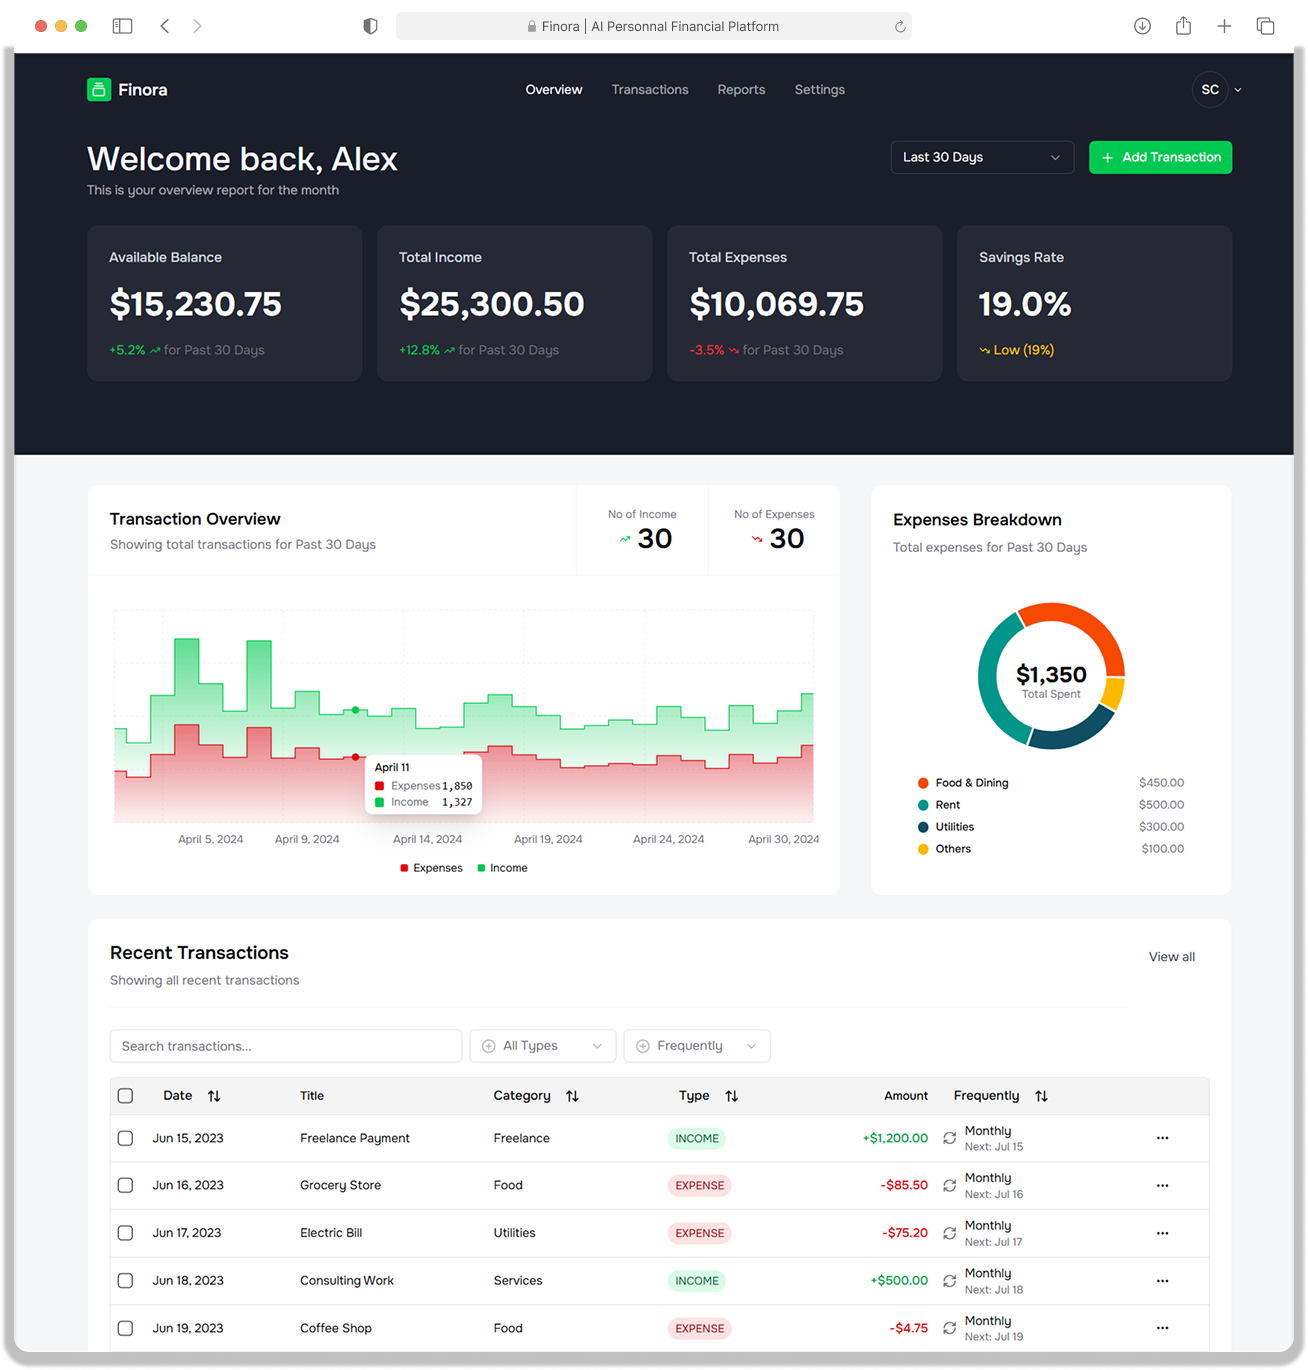
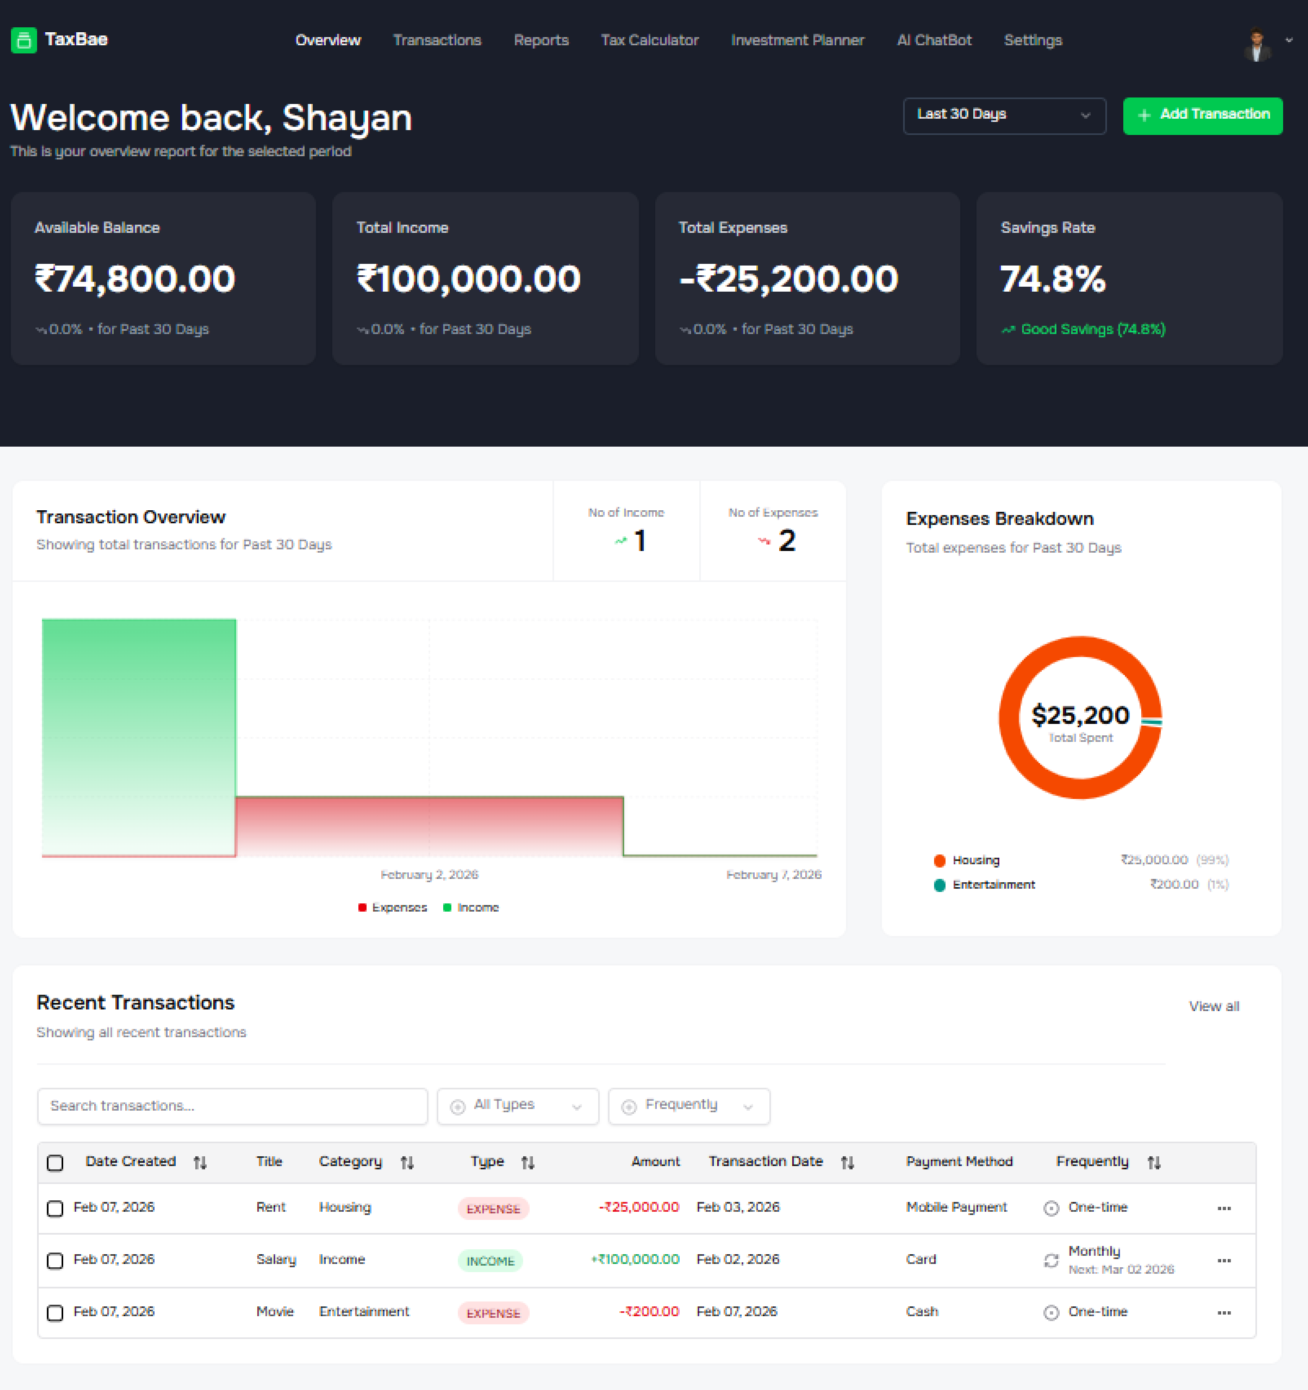
Update branding in sign-up page, enhance chatbot UI, and refine billing information

diff --git a/client/src/pages/chatbot/index.tsx b/client/src/pages/chatbot/index.tsx
@@ -3,29 +3,31 @@ import { Input } from "@/components/ui/input";
 import { Button } from "@/components/ui/button";
 
 export default function Chatbot() {
-  const [messages, setMessages] = useState<{ role: "user" | "bot"; text: string }[]>([]);
+  const [messages, setMessages] = useState<
+    { role: "user" | "bot"; text: string }[]
+  >([]);
   const [input, setInput] = useState("");
 
-  // Static responses for quick actions
   const quickAnswers: Record<string, string> = {
     "How can I save tax this year?":
       "You can save tax using Section 80C (₹1.5L), ELSS funds, PPF, NPS additional ₹50,000 under 80CCD(1B), health insurance under 80D, and home loan deductions under 24B and 80EE/80EEA.",
     "Explain Section 80C benefits":
       "Section 80C allows deductions up to ₹1.5L for investments like ELSS, PPF, EPF, life insurance premiums, home loan principal, Sukanya Samriddhi Yojana, and tax-saving FDs.",
     "Should I choose old or new tax regime?":
-      "Choose the **old regime** if you claim many deductions (80C, HRA, etc). Choose the **new regime** if your deductions are low — it offers lower tax slabs with no major exemptions.",
+      "Choose the old regime if you claim many deductions. Choose the new regime if deductions are low — it offers lower tax slabs.",
     "When should I file my ITR?":
-      "For most individuals, the ITR filing deadline is **31st July** each year. If books of accounts need audit, the deadline is **31st October**.",
+      "For most individuals, the ITR filing deadline is 31st July. If audit applies, it is 31st October.",
     "Best investment options for tax saving":
-      "Top tax-saving investments include ELSS mutual funds, PPF, NPS, tax-saving FDs, and life insurance. ELSS offers the best liquidity + high return potential.",
+      "ELSS mutual funds, PPF, NPS, tax-saving FDs, and life insurance are the best tax-saving options.",
   };
 
   const sendMessage = (msg: string) => {
     setMessages((prev) => [...prev, { role: "user", text: msg }]);
-
-    // Add bot reply (if available)
     if (quickAnswers[msg]) {
-      setMessages((prev) => [...prev, { role: "bot", text: quickAnswers[msg] }]);
+      setMessages((prev) => [
+        ...prev,
+        { role: "bot", text: quickAnswers[msg] },
+      ]);
     }
   };
 
@@ -38,80 +40,93 @@ export default function Chatbot() {
   const quickQuestions = Object.keys(quickAnswers);
 
   return (
-    <div className="w-full h-3/5 bg-[#f7f7f8] text-gray-900">
-      {/* Top Header */}
-      <header className="w-full px-6 py-4 border-b bg-white flex items-center justify-between">
-        <div>
-          <h1 className="text-xl font-semibold">AI Tax Assistant</h1>
-          <p className="text-sm text-gray-500">Connected • RAG Powered</p>
-        </div>
-        <Button variant="outline">New Chat</Button>
-      </header>
+    <div className="w-full h-[calc(100vh-64px)] bg-background text-foreground">
+      {/* Page Container */}
+      <div className="h-full max-w-7xl mx-auto px-6 py-6">
+        <div className="h-full grid grid-cols-12 gap-6">
 
-      {/* Body layout */}
-      <div className="flex-1 flex flex-col items-center py-10 overflow-y-auto">
-        
-        {/* Welcome Message */}
-        <div className="bg-white border shadow-sm rounded-xl p-6 w-full max-w-2xl">
-          <h2 className="text-lg font-semibold mb-3 flex items-center gap-2">
-            ✨ Hello there! 👋 Welcome to TaxBae AI!
-          </h2>
-
-          <p className="text-sm text-gray-600 mb-3">I'm here to help you with:</p>
-
-          <ul className="space-y-1 text-sm text-gray-700">
-            <li>• Tax planning & saving strategies 💰</li>
-            <li>• Investment guidance 📈</li>
-            <li>• ITR filing assistance 📝</li>
-            <li>• Section-wise deduction explanations 📚</li>
-            <li>• Personalized financial advice 🎯</li>
-          </ul>
-        </div>
-
-        {/* Messages */}
-        <div className="w-full max-w-2xl mt-6 space-y-4">
-          {messages.map((msg, i) => (
-            <div
-              key={i}
-              className={
-                msg.role === "user"
-                  ? "bg-blue-50 border border-blue-200 text-blue-900 p-3 rounded-lg w-fit ml-auto max-w-[70%]"
-                  : "bg-gray-100 border border-gray-300 p-3 rounded-lg w-fit max-w-[80%]"
-              }
-            >
-              {msg.text}
+          {/* ---------------- LEFT PANEL ---------------- */}
+          <aside className="col-span-12 md:col-span-3 bg-card border border-border rounded-2xl p-5 flex flex-col justify-between">
+            <div>
+              <h2 className="text-lg font-semibold">AI Tax Assistant</h2>
+              <p className="text-sm text-muted-foreground mt-1">
+                Connected • RAG Powered
+              </p>
             </div>
-          ))}
-        </div>
 
-        {/* Quick Questions */}
-        <div className="w-full max-w-2xl mt-8 flex flex-wrap gap-3">
-          {quickQuestions.map((q) => (
-            <Button
-              key={q}
-              variant="outline"
-              className="text-sm rounded-full"
-              onClick={() => sendMessage(q)}
-            >
-              {q}
+            <Button variant="outline" className="mt-6">
+              New Chat
             </Button>
-          ))}
+          </aside>
+
+          {/* ---------------- CHAT PANEL ---------------- */}
+          <section className="col-span-12 md:col-span-9 bg-card border border-border rounded-2xl flex flex-col overflow-hidden">
+
+            {/* Messages */}
+            <div className="flex-1 p-6 overflow-y-auto no-scrollbar space-y-4">
+
+              {/* Welcome Card */}
+              <div className="bg-muted/60 border border-border rounded-xl p-5">
+                <h3 className="text-lg font-semibold mb-2">
+                  ✨ Hello there! 👋 Welcome to TaxBae AI!
+                </h3>
+                <p className="text-sm text-muted-foreground mb-2">
+                  I'm here to help you with:
+                </p>
+                <ul className="text-sm text-muted-foreground space-y-1">
+                  <li>• Tax planning & saving strategies 💰</li>
+                  <li>• Investment guidance 📈</li>
+                  <li>• ITR filing assistance 📝</li>
+                  <li>• Section-wise deduction explanations 📚</li>
+                  <li>• Personalized financial advice 🎯</li>
+                </ul>
+              </div>
+
+              {/* Chat Messages */}
+              {messages.map((msg, i) => (
+                <div
+                  key={i}
+                  className={
+                    msg.role === "user"
+                      ? "ml-auto max-w-[70%] bg-blue-600 text-white p-3 rounded-lg"
+                      : "max-w-[80%] bg-muted border border-border p-3 rounded-lg"
+                  }
+                >
+                  {msg.text}
+                </div>
+              ))}
+
+              {/* Quick Questions */}
+              <div className="pt-4 flex flex-wrap gap-2">
+                {quickQuestions.map((q) => (
+                  <Button
+                    key={q}
+                    size="sm"
+                    variant="outline"
+                    className="rounded-full"
+                    onClick={() => sendMessage(q)}
+                  >
+                    {q}
+                  </Button>
+                ))}
+              </div>
+            </div>
+
+            {/* Input Area */}
+            <div className="border-t border-border p-4 flex items-center gap-3 bg-background">
+              <Input
+                placeholder="Ask me about taxes, investments, or financial planning..."
+                className="flex-1"
+                value={input}
+                onChange={(e) => setInput(e.target.value)}
+                onKeyDown={(e) => e.key === "Enter" && sendTypedMessage()}
+              />
+              <Button onClick={sendTypedMessage} className="px-6">
+                Send
+              </Button>
+            </div>
+          </section>
         </div>
-      </div>
-
-      {/* Bottom Input Bar */}
-      <div className="w-full border-t bg-white mt-20 px-6 py-4 flex items-center gap-3">
-        <Input
-          placeholder="Ask me about taxes, investments, or financial planning..."
-          className="flex-1"
-          value={input}
-          onChange={(e) => setInput(e.target.value)}
-          onKeyDown={(e) => e.key === "Enter" && sendTypedMessage()}
-        />
-
-        <Button onClick={sendTypedMessage} className="px-6">
-          Send
-        </Button>
       </div>
     </div>
   );

diff --git a/client/src/pages/settings/billing.tsx b/client/src/pages/settings/billing.tsx
@@ -6,66 +6,73 @@ const Billing = () => {
       <div>
         <h3 className="text-lg font-medium">Billing</h3>
         <p className="text-sm text-muted-foreground">
-          Manage your subscription and billing information
+          Manage your plan and unlock advanced financial insights
         </p>
       </div>
       <Separator />
 
       <div className="w-full">
-        {/* Current Plan */}
-        {/* Upgrade Options */}
         <div className="mt-0">
-          <h1 className="text-lg font-medium mb-2">Support Us</h1>
+          <h1 className="text-lg font-medium mb-2">Upgrade to Taxbae Pro 🚀</h1>
+
           <p className="text-base mb-2">
-            The Billing feature is part of the <strong>extended version</strong>{" "}
-            of this project. It took <strong>weeks and months</strong> to
-            design, build, and refine.
+            <strong>Taxbae</strong> is an AI-powered financial assistant built as
+            a <strong>college major project</strong>, designed to simplify
+            personal finance, tax planning, and investment decisions.
           </p>
 
           <p className="text-base mb-2">
-            By supporting us, you’ll unlock premium billing features including:
+            The Pro version unlocks advanced features developed through months
+            of research, design, and real-world financial modeling.
+          </p>
+
+          <p className="text-base mb-2">
+            With Taxbae Pro, you get access to:
           </p>
 
           <ul className="list-disc pl-5 text-base mb-2">
             <li>
-              <strong>Free Trial + Stripe Subscriptions</strong>
+              <strong>AI-Powered Financial Insights</strong> personalized to your
+              data
             </li>
             <li>
-              <strong>Monthly & Yearly Plans</strong> built-in
+              <strong>Monthly Financial Reports</strong> with clear breakdowns
+              and trends
             </li>
             <li>
-              <strong>Switch between plans</strong> (monthly ↔ yearly)
+              <strong>CSV Import</strong> for bank statements & transactions
             </li>
             <li>
-              <strong>Manage & Cancel Subscriptions</strong> anytime
+              <strong>Recurring Transaction Tracking</strong>
             </li>
             <li>
-              <strong>Step-by-step Setup Video</strong>
+              <strong>Investment Planning & Forecasting</strong>
             </li>
             <li>
-              <strong>Full Source Code</strong>
+              <strong>Smart Financial Calculators</strong> (tax, savings, ROI,
+              etc.)
             </li>
             <li>
-              <strong>Production-Ready Deployment</strong>
+              <strong>Advanced AI Models</strong> for predictions and planning
             </li>
           </ul>
 
           <p className="text-base mb-2">
-            Your support helps us keep building free, high-quality projects for
-            the community.
+            This project demonstrates how modern AI technology can transform
+            personal finance management into a smarter, more automated
+            experience.
           </p>
 
           <p className="text-base font-medium">
-            🔓 <span className="text-green-600">Get it here:</span>
+            🔓 <span className="text-green-600">Upgrade & explore:</span>
             <a
               className="text-blue-500 underline ml-1"
-              href="https://tinyurl.com/extended-stripe-integration"
-              target="_blank"
-              rel="noopener noreferrer"
+              href="#"
             >
-              Click Here
+              Enable Taxbae Pro
             </a>
           </p>
+
           <br />
           <br />
         </div>

diff --git a/client/src/pages/auth/sign-up.tsx b/client/src/pages/auth/sign-up.tsx
@@ -23,10 +23,10 @@ const SignUp = () => {
         <div className="absolute inset-0 flex flex-col items-end justify-end pt-8 pl-8">
           <div className="w-full max-w-3xl mx-0 pr-5">
             <h1 className="text-3xl font-bold text-gray-900 dark:text-white">
-              Hi, I'm your AI-powered personal finance app, Finora!
+              Hi, I'm your AI-powered personal finance app, TaxBae!
             </h1>
             <p className="mt-4 text-gray-600 dark:text-muted-foreground">
-            Finora provides insights, monthly reports, CSV import, recurring transactions, all powered by advanced AI technology. 🚀
+            Taxbae provides insights, monthly reports, CSV import, recurring transactions, investment planning, financial calculators,all powered by advanced AI technology. 🚀
             </p>
           </div>
           <div className="relative max-w-3xl h-full w-full overflow-hidden mt-3">

diff --git a/client/src/pages/dashboard/expense-pie-chart.tsx b/client/src/pages/dashboard/expense-pie-chart.tsx
@@ -105,8 +105,8 @@ const ExpensePieChart = (props: { dateRange?: DateRangeType }) => {
                   data={categories}
                   dataKey="value"
                   nameKey="name"
-                  innerRadius={60}
-                  outerRadius={80}
+                  innerRadius={70}
+                  outerRadius={85}
                   paddingAngle={2}
                   strokeWidth={2}
                   stroke="#fff"
@@ -133,7 +133,7 @@ const ExpensePieChart = (props: { dateRange?: DateRangeType }) => {
                               y={viewBox.cy}
                               className="fill-foreground text-2xl font-bold"
                             >
-                              ${totalSpent.toLocaleString()}
+                              ₹ {totalSpent.toLocaleString()}
                             </tspan>
                             <tspan
                               x={viewBox.cx}

diff --git a/client/src/services/chatApi.ts b/client/src/services/chatApi.ts
@@ -3,7 +3,7 @@ import { createApi, fetchBaseQuery } from '@reduxjs/toolkit/query/react';
 // Define the API slice
 export const chatApi = createApi({
   reducerPath: 'chatApi',
-  baseQuery: fetchBaseQuery({ baseUrl: 'http://localhost:8000/api/chat/' }), // Your backend URL
+  baseQuery: fetchBaseQuery({ baseUrl: 'http://localhost:8000/api/chat/' }),
   endpoints: (builder) => ({
     // Define the 'chat' endpoint
     sendMessage: builder.mutation<any, { message: string }>({

diff --git a/client/src/pages/calculators/_component/goal-planner-calculator.tsx b/client/src/pages/calculators/_component/goal-planner-calculator.tsx
@@ -96,7 +96,7 @@ const GoalPlannerCalculator: React.FC = () => {
       showResults={!!result}
     >
       {/* ---------------- Inputs ---------------- */}
-      <div className="grid grid-cols-1 md:grid-cols-3 gap-4">
+      <div className="grid grid-rows-1 gap-4">
         <input
           className="input"
           placeholder="Target Amount (₹)"

diff --git a/client/src/index.css b/client/src/index.css
@@ -153,6 +153,10 @@ input::-webkit-inner-spin-button {
     transition;
 }
 
+.no-scrollbar::-webkit-scrollbar {
+  display: none; /* Chrome, Safari */
+}
+
 /* --chart-1: oklch(0.37 0.14 146.5);
 --chart-2: oklch(0.65 0.16 147.2);
 --chart-3: oklch(0.48 0.19 148.6);
